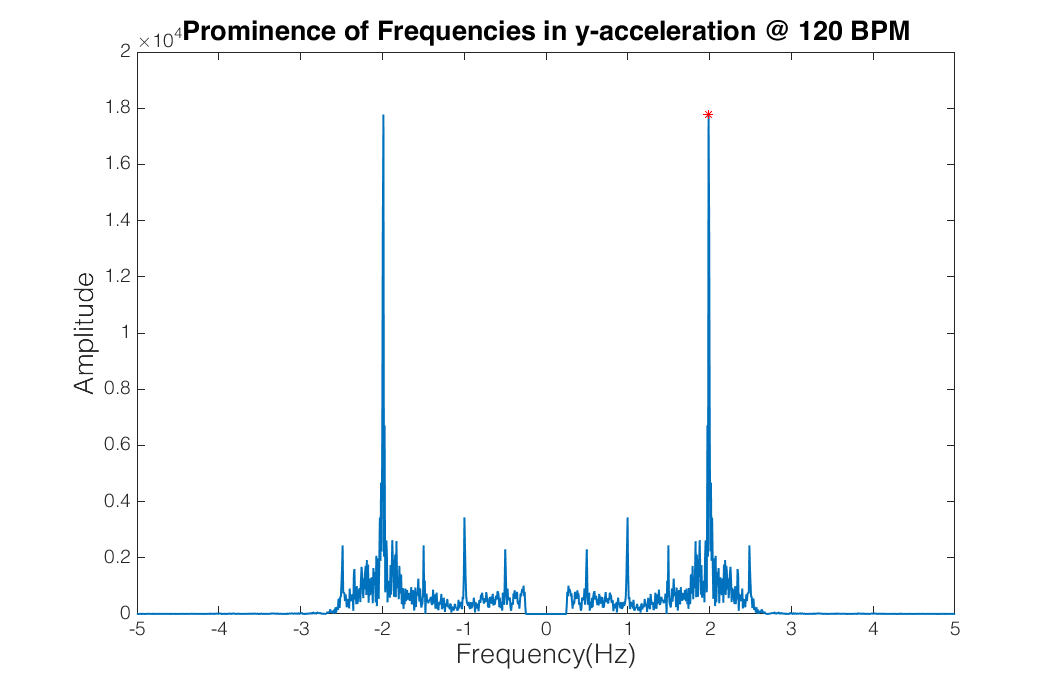
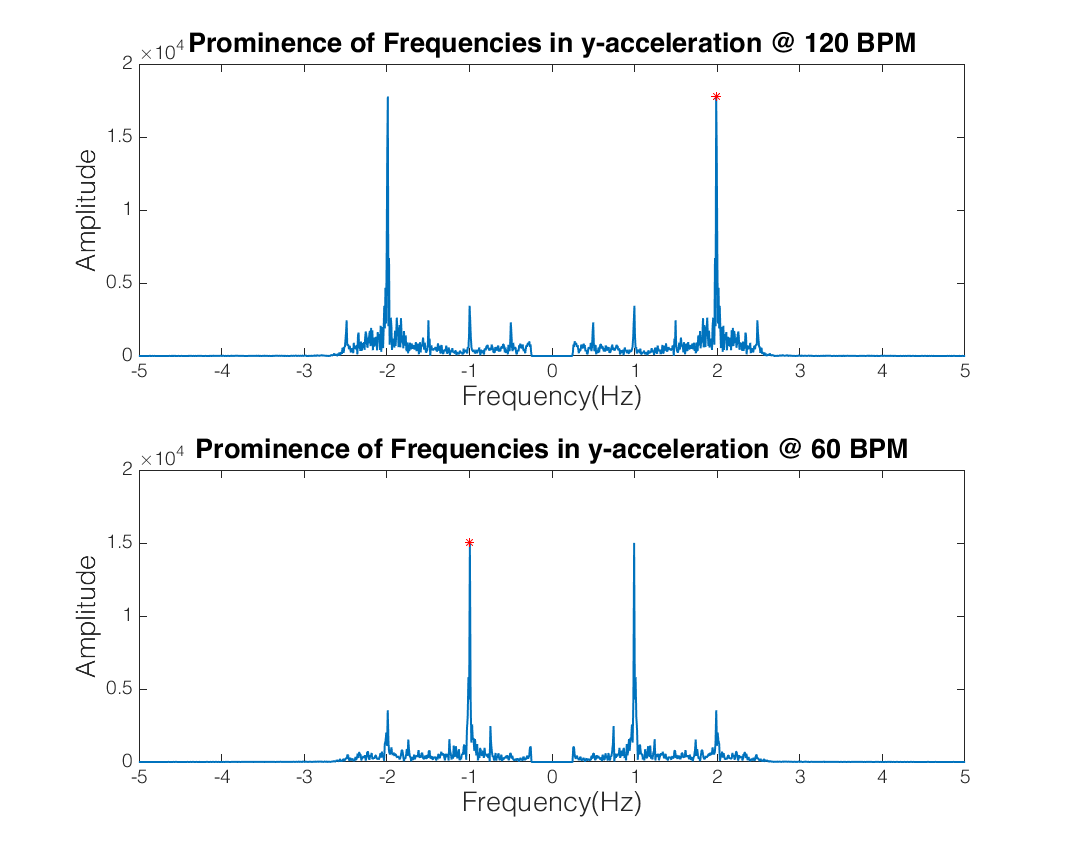
Adding more pictures.

diff --git a/README.md b/README.md
@@ -45,8 +45,9 @@ When the phone accelerometer is oriented as in the figure above, this movement c
 
 Because most conducting patterns involve one up/down motion per beat, the y-acceleration should be roughly periodic with a period of one beat. Based on this, we can take the Fourier transform of the y-acceleration data, filter it, and extract the most prominent frequency.
 
-![Our model of the phone's motion.](FFT1.png)
-As can be seen in the above figure, there is a noticeable spike in the FFT at the frequency corresponding to BPM/60, (aka the beats per second). We can use this to determine the tempo of the music based on the Fourier transform of the x-acceleration data.
+![The frequency analysis of our data.](FFT1.png)
+
+We begin by filtering the data, limiting it to frequencies less than ~3 Hz, as that is the highest frequency we expect. As can be seen in the above figure, there is a noticeable spike in the amplitude at the frequency corresponding to BPM/60 (i.e. the beats per second) - when the conducting is being done at 120 BPM the spike is at 2 Hz, and at 60 BPM the spike is at 1 Hz. We can use this to determine the tempo of the music based on the Fourier transform of the x-acceleration data.
 
 ### Volume
 
@@ -59,6 +60,16 @@ on the livestream data that is received from the accelerometers, and is filtered
 based on the tempo of the movements. Based on this filtering, the amplitude of the
 overruling frequency (which is also the tempo of the music piece), is the volume.
 
+### Cues
+
+In order to detect cueing, we perform similar analysis to the tempo detection. Because cueing is indicated by pointing, the same acceleration should occur along the y axis - except we're now looking for a single spike instead of the frequency.
+
+![Cue detection.](Cue.png)
+
+As can be seen in the figure above, cues correspond to spikes in the y-acceleration. We detect cues by looking at the local maxima of the y-acceleration. From that, we filter the peaks to include peaks in acceleration that "fall off" with a certain steepness, selecting only peaks above a certain threshold.
+
+
+
 ### Livestreaming Proof of Concept
 
 <iframe width="560" height="315" src="https://www.youtube.com/embed/Gs7KTd38o4Y" frameborder="0" allowfullscreen></iframe>
@@ -66,7 +77,6 @@ overruling frequency (which is also the tempo of the music piece), is the volume
 Over the course of the music piece, the volume information from a time interval is
 averaged and communicated to the musician.
 
-### Cue
 
 ## Future Steps
 
